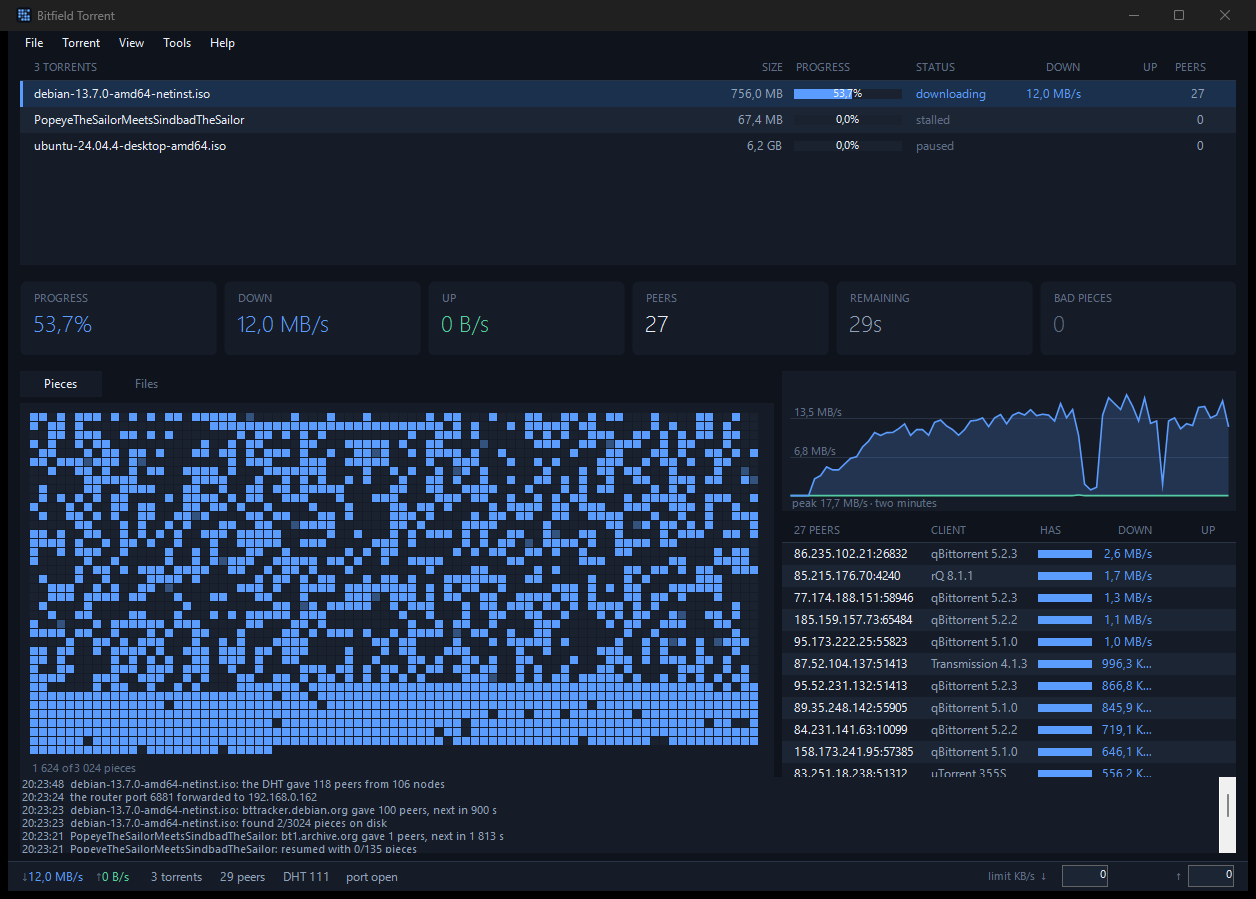
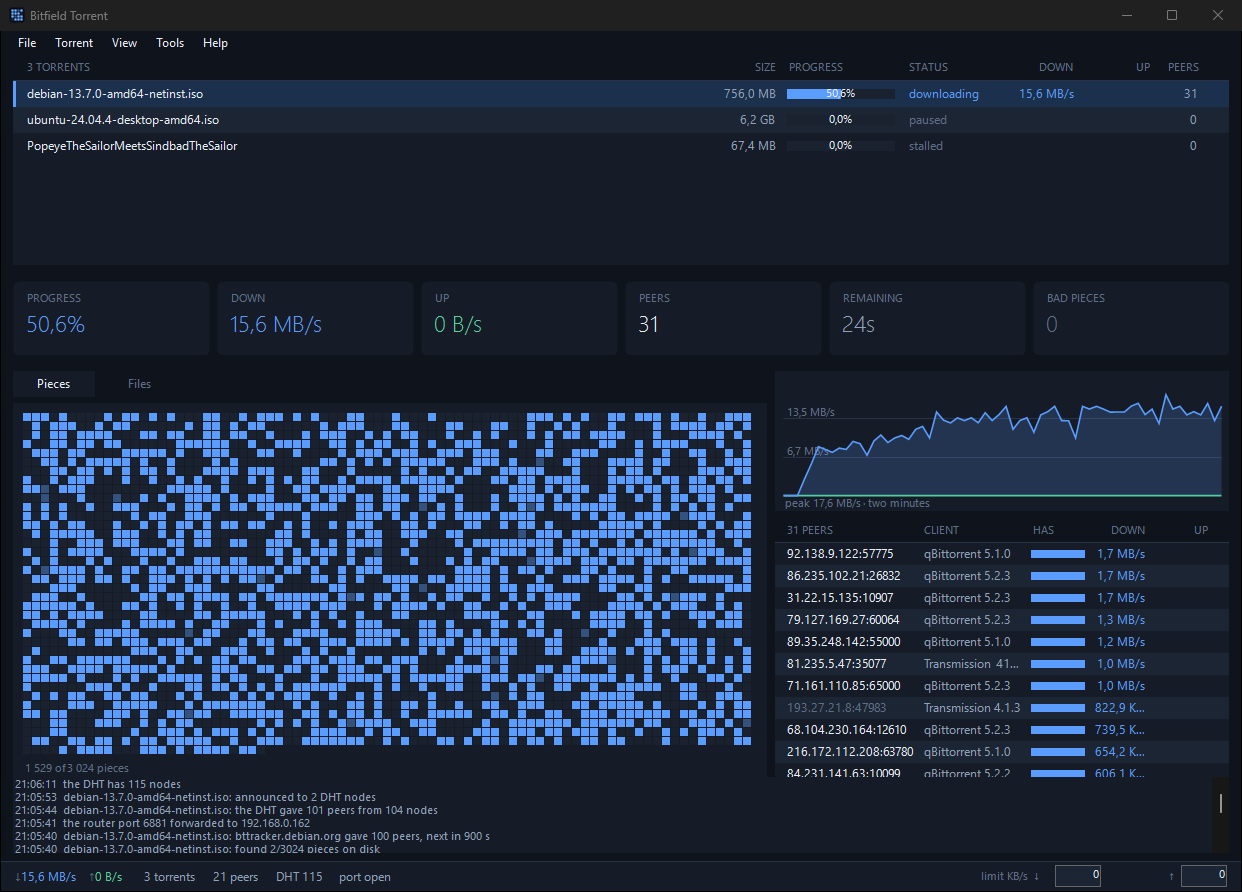
Stop Windows drawing a white scroll bar down a dark window
A scroll bar belongs to the system rather than to the control it sits beside,
so the log's stayed white however dark the list behind it was painted. The
process now asks for dark common controls, and the one control with a
system-drawn scroll bar is put on the dark visual style.

Version 1.0.1, which travels into the peer id (-BF1010-) and the client string
other peers are told over the extension protocol. The screenshot is retaken
with the fixed build.

diff --git a/src/Bitfield/Native/NativeMethods.cs b/src/Bitfield/Native/NativeMethods.cs
@@ -45,6 +45,57 @@ internal static partial class NativeMethods
         }
     }
 
+    /// <summary>
+    /// Opts the process into dark common controls. A scroll bar is drawn by
+    /// Windows rather than by the control it belongs to, so it stays white
+    /// however dark the list behind it is painted — a white stripe down the
+    /// side of a dark window. The two entry points are exported by ordinal
+    /// only, so they are bound that way.
+    /// </summary>
+    internal static void UseDarkCommonControls()
+    {
+        try
+        {
+            SetPreferredAppMode(AllowDarkMode);
+            FlushMenuThemes();
+        }
+        catch (EntryPointNotFoundException)
+        {
+            // Windows 10 before 1903 does not export these.
+        }
+        catch (DllNotFoundException)
+        {
+        }
+    }
+
+    /// <summary>
+    /// Puts one control on the dark visual style, which is what turns its
+    /// scroll bars from white to dark once the process has asked for dark
+    /// common controls.
+    /// </summary>
+    internal static void UseDarkStyle(nint control)
+    {
+        try
+        {
+            SetWindowTheme(control, "DarkMode_Explorer", nint.Zero);
+        }
+        catch (DllNotFoundException)
+        {
+        }
+    }
+
+    /// <summary>Allow dark mode where the application asks for it.</summary>
+    private const int AllowDarkMode = 1;
+
+    [LibraryImport("uxtheme.dll", EntryPoint = "#135", SetLastError = false)]
+    private static partial int SetPreferredAppMode(int mode);
+
+    [LibraryImport("uxtheme.dll", EntryPoint = "#136", SetLastError = false)]
+    private static partial void FlushMenuThemes();
+
+    [LibraryImport("uxtheme.dll", EntryPoint = "SetWindowTheme", StringMarshalling = StringMarshalling.Utf16)]
+    private static partial int SetWindowTheme(nint window, string subAppName, nint subIdList);
+
     [LibraryImport("dwmapi.dll")]
     private static partial int DwmSetWindowAttribute(nint window, int attribute, ref int value, int size);
 

diff --git a/tests/Bitfield.Tests/TrackerTests.cs b/tests/Bitfield.Tests/TrackerTests.cs
@@ -31,11 +31,11 @@ internal static class TrackerTests
         string text = generated.ToString();
 
         check("peer id: twenty bytes", generated.ToArray().Length == 20, "");
-        check("peer id: names this client", text.StartsWith("-BF1000-", StringComparison.Ordinal), text);
+        check("peer id: names this client", text.StartsWith("-BF1010-", StringComparison.Ordinal), text);
         check("peer id: the tail is random",
             PeerId.Generate() != PeerId.Generate(), "two generated ids came out the same");
         check("peer id: reads back its own client name",
-            generated.ClientName() == "Bitfield 1.0.0", generated.ClientName());
+            generated.ClientName() == "Bitfield 1.0.1", generated.ClientName());
 
         // Other clients' ids are what a peer list will mostly be made of.
         check("peer id: recognises qBittorrent",
@@ -57,7 +57,7 @@ internal static class TrackerTests
         AnnounceRequest request = new()
         {
             InfoHash = InfoHash.Parse(DebianInfoHash),
-            PeerId = Id("-BF1000-abcdefghijkl"),
+            PeerId = Id("-BF1010-abcdefghijkl"),
             Port = 6881,
             Left = 792_723_456,
             Event = TrackerEvent.Started,
@@ -72,7 +72,7 @@ internal static class TrackerTests
         const string expected =
             "http://bttracker.debian.org:6969/announce"
             + "?info_hash=z%CF%8F%B5%90%B2%06%0D%D9%C3%14n%F7p%16%9DY43%B0"
-            + "&peer_id=-BF1000-abcdefghijkl"
+            + "&peer_id=-BF1010-abcdefghijkl"
             + "&port=6881&uploaded=0&downloaded=0&left=792723456&compact=1&event=started";
 
         check("announce url: built byte for byte", uri.AbsoluteUri == expected, uri.AbsoluteUri);

diff --git a/tests/Bitfield.Tests/MagnetTests.cs b/tests/Bitfield.Tests/MagnetTests.cs
@@ -85,7 +85,7 @@ internal static class MagnetTests
         AnnounceRequest request = new()
         {
             InfoHash = InfoHash.Parse(DebianInfoHash),
-            PeerId = new PeerId(Encoding.ASCII.GetBytes("-BF1000-abcdefghijkl")),
+            PeerId = new PeerId(Encoding.ASCII.GetBytes("-BF1010-abcdefghijkl")),
             Port = 6881,
             Downloaded = 1_000,
             Left = 2_000,
@@ -125,7 +125,7 @@ internal static class MagnetTests
             announceSeen != null && Convert.ToHexStringLower(announceSeen.AsSpan(16, 20)) == DebianInfoHash,
             announceSeen == null ? "" : Convert.ToHexStringLower(announceSeen.AsSpan(16, 20)));
         check("udp tracker: the peer id at 36",
-            announceSeen != null && Encoding.ASCII.GetString(announceSeen, 36, 20) == "-BF1000-abcdefghijkl", "");
+            announceSeen != null && Encoding.ASCII.GetString(announceSeen, 36, 20) == "-BF1010-abcdefghijkl", "");
         check("udp tracker: the counters at 56, 64 and 72",
             announceSeen != null
             && BinaryPrimitives.ReadInt64BigEndian(announceSeen.AsSpan(56)) == 1_000

diff --git a/tests/Bitfield.Tests/PeerProtocolTests.cs b/tests/Bitfield.Tests/PeerProtocolTests.cs
@@ -29,7 +29,7 @@ internal static class PeerProtocolTests
         PeerHandshake handshake = new()
         {
             InfoHash = InfoHash.Parse(DebianInfoHash),
-            PeerId = Id("-BF1000-abcdefghijkl"),
+            PeerId = Id("-BF1010-abcdefghijkl"),
             Reserved = ReservedBits.Ours,
         };
 
@@ -43,7 +43,7 @@ internal static class PeerProtocolTests
             Convert.ToHexStringLower(bytes.AsSpan(28, 20)) == DebianInfoHash,
             Convert.ToHexStringLower(bytes.AsSpan(28, 20)));
         check("handshake: peer id in place",
-            Encoding.ASCII.GetString(bytes, 48, 20) == "-BF1000-abcdefghijkl", "");
+            Encoding.ASCII.GetString(bytes, 48, 20) == "-BF1010-abcdefghijkl", "");
 
         PeerHandshake parsed = PeerHandshake.Parse(bytes);
         check("handshake: reads back what it wrote",

diff --git a/src/Bitfield.Core/Peers/PeerId.cs b/src/Bitfield.Core/Peers/PeerId.cs
@@ -35,12 +35,12 @@ public readonly struct PeerId : IEquatable<PeerId>
     }
 
     /// <summary>
-    /// A fresh peer id in the Azureus style: <c>-BF1000-</c> followed by twelve
+    /// A fresh peer id in the Azureus style: <c>-BF1010-</c> followed by twelve
     /// random characters. Random rather than derived from anything, so that two
     /// runs on the same machine are two different peers as far as the swarm is
     /// concerned.
     /// </summary>
-    public static PeerId Generate(int major = 1, int minor = 0, int patch = 0)
+    public static PeerId Generate(int major = 1, int minor = 0, int patch = 1)
     {
         Span<byte> bytes = stackalloc byte[Size];
 

diff --git a/src/Bitfield/MainForm.cs b/src/Bitfield/MainForm.cs
@@ -476,6 +476,11 @@ internal sealed class MainForm : Form
         _log.Font = Theme.CaptionFont;
         _log.IntegralHeight = false;
 
+        // The only control here whose scroll bar Windows draws rather than this
+        // application, so it is the only one that has to be told about the dark
+        // style by hand.
+        _log.HandleCreated += (_, _) => Native.NativeMethods.UseDarkStyle(_log.Handle);
+
         Panel host = new() { Dock = DockStyle.Bottom, Height = 84, Padding = new Padding(12, 8, 12, 8), BackColor = Theme.Background };
         host.Controls.Add(_log);
         return host;

diff --git a/src/Bitfield.Core/Peers/MetadataExchange.cs b/src/Bitfield.Core/Peers/MetadataExchange.cs
@@ -41,7 +41,7 @@ public static class MetadataExchange
             ("m", Dictionary(("ut_metadata", new BInteger(OurMetadataExtension)))),
             ("p", new BInteger(port)),
             ("reqq", new BInteger(250)),
-            ("v", new BString("Bitfield 1.0")),
+            ("v", new BString("Bitfield 1.0.1")),
         ];
 
         if (metadataSize is { } size)

diff --git a/src/Bitfield/Program.cs b/src/Bitfield/Program.cs
@@ -12,6 +12,7 @@ static class Program
     static void Main(string[] args)
     {
         ApplicationConfiguration.Initialize();
+        Native.NativeMethods.UseDarkCommonControls();
         Application.Run(new MainForm(
             args.Length > 0 ? args[0] : null,
             args.Length > 1 ? args[1] : null));

diff --git a/README.md b/README.md
@@ -11,8 +11,8 @@ download proceeds.
 
 ![Bitfield Torrent downloading a Debian ISO](docs/screenshot.png)
 
-Three torrents — one downloading the Debian netinst ISO at 12 MB/s across 27
-peers, one stalled, one paused. The speckle in the piece map is what rarest
+Three torrents — one downloading the Debian netinst ISO at 15.6 MB/s across 31
+peers, one paused, one stalled. The speckle in the piece map is what rarest
 first looks like: pieces arriving from all over the torrent rather than in
 order.
 
